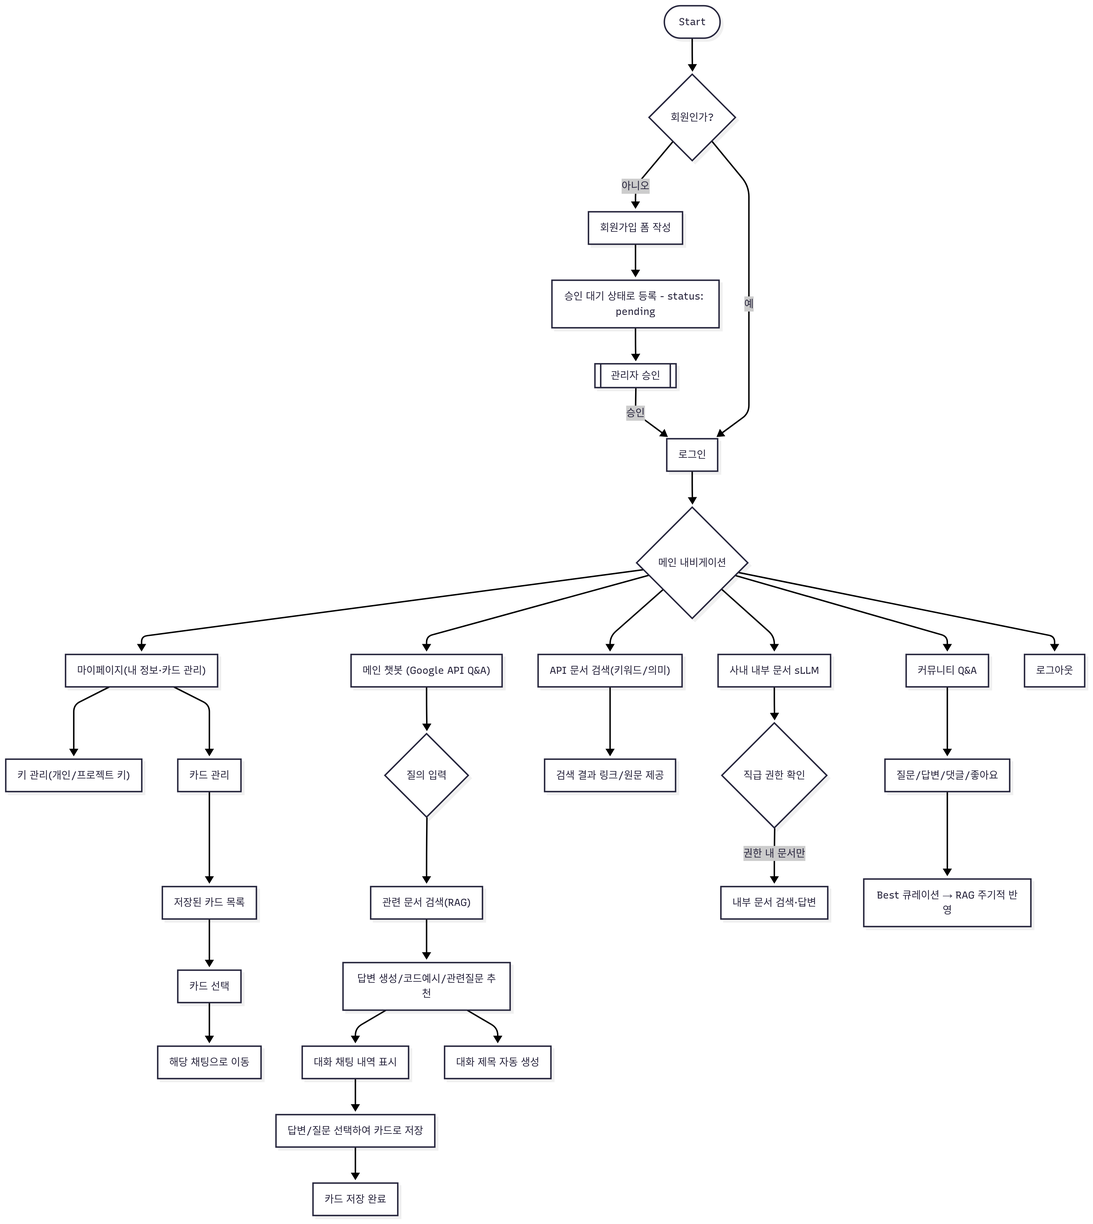
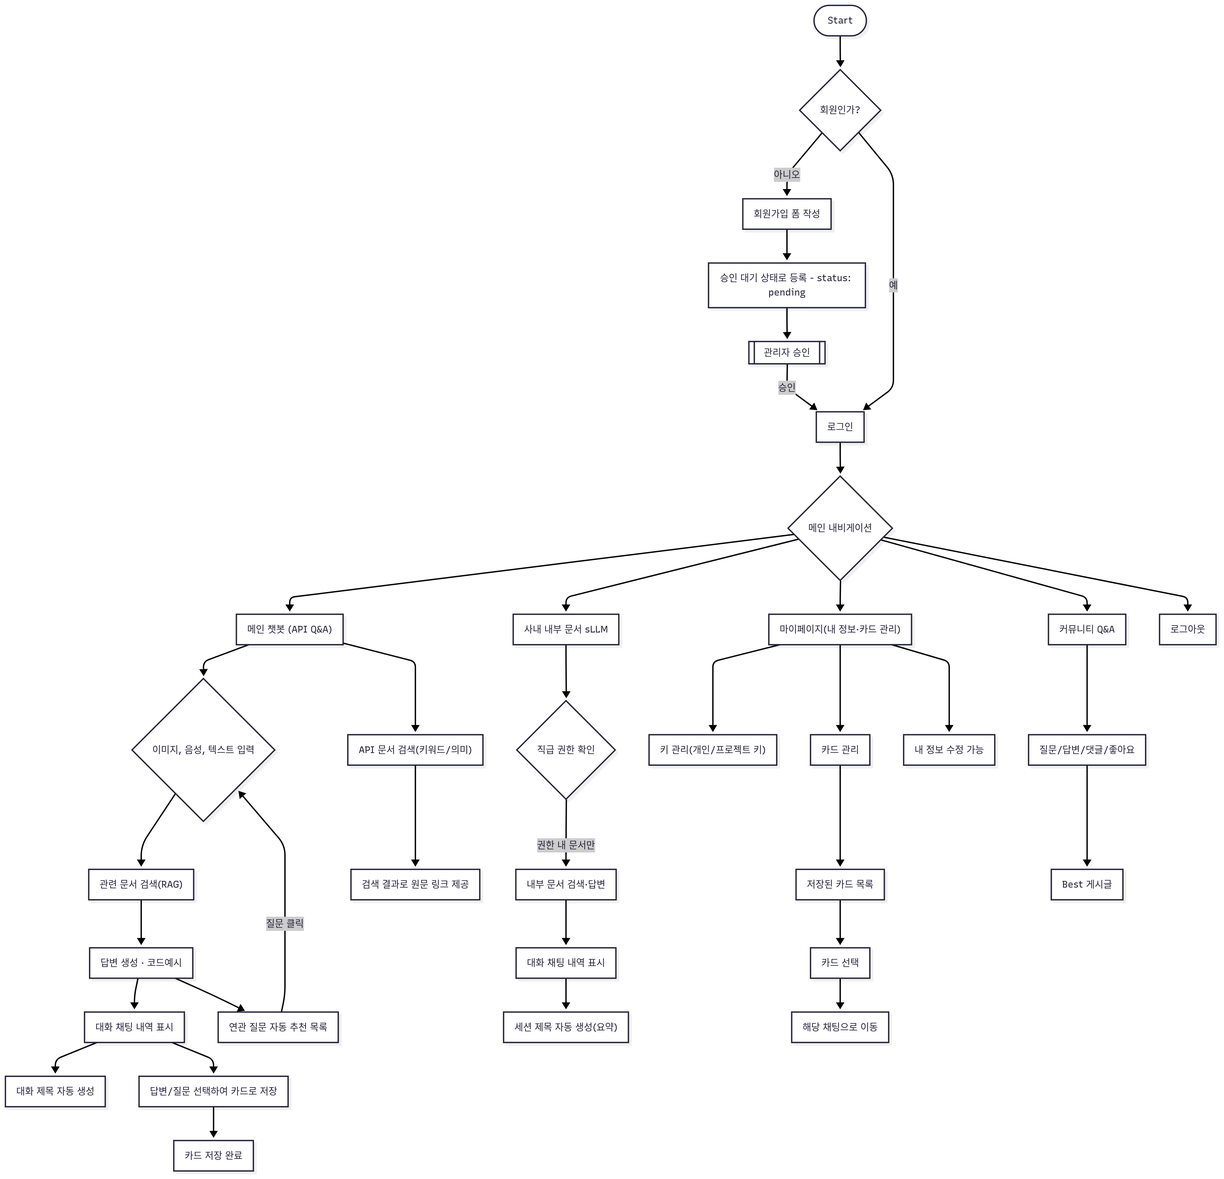
Update: READ ME 업데이트 (유저 플로우까지 업데이트 완료)

diff --git a/README.md b/README.md
@@ -1,7 +1,7 @@
 # 🚀 SK네트웍스 Family AI 과정 14기 1팀 - Final Project
 
-## **❇ 프로젝트명**  
-LLM 활용 내부 고객 업무 효율성 향상을 위한 구글 API 전문 사내 개발자 지원 AI 기반 문서 검색 시스템  
+## **❇ 프로젝트명 : CodeNova**  
+LLM 활용 내부 고객 업무 효율성 향상을 위한 API 전문 사내 개발자 지원 AI 기반 문서 검색 시스템  
 
 ---
 
@@ -12,25 +12,27 @@ LLM 활용 내부 고객 업무 효율성 향상을 위한 구글 API 전문 사
 ---
 
 ## 📌 프로젝트 개요
-구글 API는 방대한 문서와 복잡한 구조로 인해 개발자가 필요한 정보를 신속하게 찾기 어렵습니다.  
+API 문서는 방대한 문서와 복잡한 구조로 인해 개발자가 필요한 정보를 신속하게 찾기 어렵습니다.  
 
 본 프로젝트는 **RAG + LLM 기반 문서 검색 시스템**을 구축하여 내부 개발자의 **검색 효율성**과 **업무 생산성**을 높이는 것을 목표로 합니다.  
 
-이 시스템은 아래와 같이 크게 **구글 API 전문 어시스턴트**과 **사내 내부 문서 전문 sLLM 챗봇**으로 구성됩니다.  
+이 시스템은 아래와 같이 크게 **API 전문 어시스턴트**과 **사내 내부 문서 전문 SLLM 챗봇**으로 구성됩니다.  
 
-- **구글 API 전문 어시스턴트**:  
-  - **OpenAI GPT-4o 기반 메인 챗봇**
-  > 구글 API Q&A, 예제 코드, 오류 해결 등 **구글 API 문서에 대한 전반적인 질의응답**을 지원하는 챗봇. 사용자가 질문을 입력하면 관련 문서를 벡터 DB에서 검색하여 최적의 답변을 제공합니다.  
+- **API 전문 어시스턴트**:  
+  - **OpenAI GPT-4o 기반 챗봇**
+  > API Q&A, 예제 코드, 오류 해결 등 **API 문서에 대한 전반적인 질의응답**을 지원하는 챗봇. 사용자가 질문을 입력하면 관련 문서를 벡터 DB에서 검색하여 최적의 답변을 제공합니다.  
 
-  - **구글 API 문서 검색**:  
-  >   **키워드 기반** 및 **의미 기반 검색**을 통해 구글 API 문서를 빠르게 찾을 수 있는 기능. 
+  - **API 문서 원문 검색**:  
+  > 사용자가 입력한 검색어에 대한 **의미 기반 검색**을 통해 API 문서 원문 링크를 빠르게 찾을 수 있는 기능. 
   > 
   > 사용자가 특정 키워드나 의미를 입력하면 관련 원문 링크를 제공하여 구체적인 정보에 쉽게 접근할 수 있게 합니다.  
 
 - **사내 내부 문서 전문 sLLM 챗봇**:  
-  > 사내 정책·규정·기술 자료를 검색할 수 있으며, **권한 기반 보안 필터**를 적용해 사용자의 직급과 부서에 맞는 문서만 열람 가능  
+  > 사내 정책·규정·기술 자료를 검색할 수 있으며, **권한 기반 보안 필터**를 적용해 사용자의 직급과 부서에 맞는 문서만 열람 가능하도록 합니다.
   >
-  > 또한, **사내 전용 말투·용어·보고체계**를 반영하여 내부 직원들이 친숙하고 실질적인 도움을 받을 수 있도록 최적화된 대화 경험 제공  
+  > 또한, **사내 전용 말투·용어·보고체계**를 반영하여 내부 직원들이 친숙하고 실질적인 도움을 받을 수 있도록 최적화된 대화 경험 제공합니다.
+  > 
+  > 그리고 사용자가 공손/친구 말투 중 선택할 수 있도록 하여, 원하는 형태의 챗봇 응답을 받을 수 있도록 하는 사용자 경험을 제공합니다. 
 
 
 ---
@@ -41,8 +43,8 @@ LLM 활용 내부 고객 업무 효율성 향상을 위한 구글 API 전문 사
 - **국내 AI 산업**: 2024년 6조 3,000억 원 (응용 소프트웨어 2조 6,700억 원, 최대 비중)
 
 ### 타겟 고객
-- 구글 API를 활용하는 **사내 개발자 / 엔지니어**
-- 구글 API 서비스 및 연동 솔루션 관련 부서
+- API(구글 등)를 활용하는 **사내 개발자 / 엔지니어**
+- API 연관 서비스 및 연동 솔루션 관련 부서
 
 ### 비즈니스 모델 (BM)
 - **구독형 라이선스**: 월/연 단위 과금, 기능별·사용자 수 차등 요금제
@@ -52,97 +54,167 @@ LLM 활용 내부 고객 업무 효율성 향상을 위한 구글 API 전문 사
 
 ## ⚙ 기술 스택
 
-| 항목               | 내용                                                                                                                                                                                                                                                                                                                                                                                                                          |
-| :----------------- |:------------------------------------------------------------------------------------------------------------------------------------------------------------------------------------------------------------------------------------------------------------------------------------------------------------------------------------------------------------------------------------------------------------------------------|
-| **Frontend**       | ![Django](https://img.shields.io/badge/Django-092E20?style=for-the-badge&logo=django&logoColor=white) ![HTML5](https://img.shields.io/badge/HTML5-E34F26?style=for-the-badge&logo=html5&logoColor=white) ![CSS3](https://img.shields.io/badge/CSS3-1572B6?style=for-the-badge&logo=css3&logoColor=white) ![JavaScript](https://img.shields.io/badge/JavaScript-F7DF1E?style=for-the-badge&logo=javascript&logoColor=black) |
-| **Backend**        | ![Django](https://img.shields.io/badge/Django-092E20?style=for-the-badge&logo=django&logoColor=white) ![FastAPI](https://img.shields.io/badge/FastAPI-009688?style=for-the-badge&logo=fastapi&logoColor=white) ![Gunicorn](https://img.shields.io/badge/Gunicorn-6DA55F?style=for-the-badge&logo=gunicorn&logoColor=white) ![Uvicorn](https://img.shields.io/badge/Uvicorn-FFA500?style=for-the-badge&logo=uvicorn&logoColor=white) |
-| **DB**             | ![MySQL](https://img.shields.io/badge/MySQL-4479A1?style=for-the-badge&logo=mysql&logoColor=white) ![Chroma](https://img.shields.io/badge/Chroma-4B8BEA?style=for-the-badge&logo=python&logoColor=white) |
-| **Infra**          | ![AWS](https://img.shields.io/badge/Amazon%20AWS-232F3E?style=for-the-badge&logo=amazon-aws&logoColor=white) ![Docker](https://img.shields.io/badge/Docker-2496ED?style=for-the-badge&logo=docker&logoColor=white) ![Nginx](https://img.shields.io/badge/Nginx-009639?style=for-the-badge&logo=nginx&logoColor=white) |
-| **CI/CD**          | ![GitHub Actions](https://img.shields.io/badge/GitHub%20Actions-2088FF?style=for-the-badge&logo=github-actions&logoColor=white) ![AWS Elastic Beanstalk](https://img.shields.io/badge/AWS%20Elastic%20Beanstalk-232F3E?style=for-the-badge&logo=amazon-aws&logoColor=white) |
-| **Embedding**      | ![BGE-M3](https://img.shields.io/badge/BGE--M3-000000?style=for-the-badge&logo=huggingface&logoColor=white) |
-| **LLM Model**      | ![GPT-4o](https://img.shields.io/badge/GPT--4o-4B91FF?style=for-the-badge&logo=openai&logoColor=white) ![LangGraph](https://img.shields.io/badge/LangGraph-1E90FF?style=for-the-badge&logo=graphviz&logoColor=white) |
-| **Collaboration**  | ![Git](https://img.shields.io/badge/Git-F05032?style=for-the-badge&logo=git&logoColor=white) ![Notion](https://img.shields.io/badge/Notion-000000?style=for-the-badge&logo=notion&logoColor=white) ![Discord](https://img.shields.io/badge/Discord-7289DA?style=for-the-badge&logo=discord&logoColor=white) |
-| **Development**    | ![VS Code](https://img.shields.io/badge/VS%20Code-007ACC?style=for-the-badge&logo=visual-studio-code&logoColor=white) ![PyCharm](https://img.shields.io/badge/PyCharm-000000?style=for-the-badge&logo=pycharm&logoColor=white) |
+| 항목                  | 내용                                                                                                                                                                                                                                                                                                                                                                                                                                  |
+|:--------------------|:------------------------------------------------------------------------------------------------------------------------------------------------------------------------------------------------------------------------------------------------------------------------------------------------------------------------------------------------------------------------------------------------------------------------------------|
+| **Frontend**        | ![Django](https://img.shields.io/badge/Django-092E20?style=for-the-badge&logo=django&logoColor=white) ![HTML5](https://img.shields.io/badge/HTML5-E34F26?style=for-the-badge&logo=html5&logoColor=white) ![CSS3](https://img.shields.io/badge/CSS3-1572B6?style=for-the-badge&logo=css3&logoColor=white) ![JavaScript](https://img.shields.io/badge/JavaScript-F7DF1E?style=for-the-badge&logo=javascript&logoColor=black) |
+| **Backend**         | ![Django](https://img.shields.io/badge/Django-092E20?style=for-the-badge&logo=django&logoColor=white) ![FastAPI](https://img.shields.io/badge/FastAPI-009688?style=for-the-badge&logo=fastapi&logoColor=white) ![Gunicorn](https://img.shields.io/badge/Gunicorn-6DA55F?style=for-the-badge&logo=gunicorn&logoColor=white) ![Uvicorn](https://img.shields.io/badge/Uvicorn-FFA500?style=for-the-badge&logo=uvicorn&logoColor=white) |
+| **DB**              | ![MySQL](https://img.shields.io/badge/MySQL-4479A1?style=for-the-badge&logo=mysql&logoColor=white) ![Chroma](https://img.shields.io/badge/Chroma-4B8BEA?style=for-the-badge&logo=python&logoColor=white)                                                                                                                                                                                                                            |
+| **Infra**           | ![AWS](https://img.shields.io/badge/Amazon%20AWS-232F3E?style=for-the-badge&logo=amazon-aws&logoColor=white) ![S3](https://img.shields.io/badge/Amazon%20S3-569A31?style=for-the-badge&logo=amazons3&logoColor=white) ![Docker](https://img.shields.io/badge/Docker-2496ED?style=for-the-badge&logo=docker&logoColor=white) ![Nginx](https://img.shields.io/badge/Nginx-009639?style=for-the-badge&logo=nginx&logoColor=white) ![RunPod](https://img.shields.io/badge/RunPod-FF4500?style=for-the-badge&logo=cloudflare&logoColor=white) ![vLLM](https://img.shields.io/badge/vLLM-000000?style=for-the-badge&logo=lightning&logoColor=white) |
+| **CI/CD**           | ![GitHub Actions](https://img.shields.io/badge/GitHub%20Actions-2088FF?style=for-the-badge&logo=github-actions&logoColor=white) ![AWS Elastic Beanstalk](https://img.shields.io/badge/AWS%20Elastic%20Beanstalk-232F3E?style=for-the-badge&logo=amazon-aws&logoColor=white)                                                                                                                                                         |
+| **Embedding Model** | ![BGE-M3](https://img.shields.io/badge/BGE--M3-000000?style=for-the-badge&logo=huggingface&logoColor=white)                                                                                                                                                                                                                                                                                                                         |
+| **LLM Model**       | ![GPT-4](https://img.shields.io/badge/GPT--4-4B91FF?style=for-the-badge&logo=openai&logoColor=white) ![Qwen3-8B](https://img.shields.io/badge/Qwen3--8B%20(on%20RunPod%20+%20vLLM)-FF6F00?style=for-the-badge&logo=alibabacloud&logoColor=white) |
+| **Orchestration**   | ![LangGraph](https://img.shields.io/badge/LangGraph-1E90FF?style=for-the-badge&logo=graphviz&logoColor=white) ![LangChain](https://img.shields.io/badge/LangChain-2E8B57?style=for-the-badge&logo=chainlink&logoColor=white) |
+| **Collaboration**   | ![Git](https://img.shields.io/badge/Git-F05032?style=for-the-badge&logo=git&logoColor=white) ![GitHub](https://img.shields.io/badge/GitHub-181717?style=for-the-badge&logo=github&logoColor=white) ![Notion](https://img.shields.io/badge/Notion-000000?style=for-the-badge&logo=notion&logoColor=white) ![Discord](https://img.shields.io/badge/Discord-7289DA?style=for-the-badge&logo=discord&logoColor=white) |
+| **Development**     | ![VS Code](https://img.shields.io/badge/VS%20Code-007ACC?style=for-the-badge&logo=visual-studio-code&logoColor=white) ![PyCharm](https://img.shields.io/badge/PyCharm-000000?style=for-the-badge&logo=pycharm&logoColor=white) |
 
 ---
 
 ## ⚙ 시스템 아키텍처
 
-> 본 시스템은 **Django** 기반 웹 애플리케이션과 여러 기능 모듈로 구성되며, **AWS Elastic Beanstalk** 환경에서 **Docker 컨테이너**로 배포됩니다. 
->
-> 전체 구성은 **백엔드**(Django-Gunicorn/Uvicorn, FastAPI), **Chroma Vector DB**(챗봇 RAG 데이터 검색용), **MySQL**(사용자 및 콘텐츠 저장)로 이루어져 있습니다.
+> 본 시스템은 Django 기반 웹 애플리케이션, FastAPI 서비스, LLM(OpenAI GPT-4), sLLM(Qwen3-8B 파인튜닝 모델)로 구성됩니다.  
+> 
+> 대부분의 애플리케이션은 **AWS Elastic Beanstalk** 환경에서 **Docker 컨테이너** 형태로 배포됩니다.  
+> 
+> 다만, **MySQL DB는 별도의 AWS EC2 인스턴스** 위에서 Docker 컨테이너로 운영됩니다.  
 
-### [**아키텍쳐 이미지**]
+---
 
-<img width="1100" height="647" alt="시스템 아키텍처" src="https://github.com/user-attachments/assets/05f357ed-9120-4b1b-a99c-e1e7af3b46a6" />
+### 🔹 주요 구성 요소
 
+1. **웹 애플리케이션 계층**
+   - **Django (Gunicorn/Uvicorn)**: 메인 백엔드 프레임워크, OpenAI GPT-4 API 연동
+   - **Nginx Proxy + Application Load Balancer (ALB)**: 외부 요청을 HTTPS/HTTP로 수신 후 Django 컨테이너로 전달
+   - **AWS Route53**: 도메인 관리 및 HTTPS 라우팅 (`https://code-nova.dev`, `http://sllm.code-nova.site`)
 
-### [**주요 구성 요소**]
+2. **데이터베이스 계층**
+   - **MySQL (별도 AWS EC2 인스턴스 내 Docker 컨테이너)**: 사용자 계정 정보, 채팅 내역, 커뮤니티 내용 등 저장
+   - **Chroma Vector DB**: 챗봇 RAG 검색용 벡터 데이터베이스
 
-#### 💠 **메인 챗봇 서비스**
-- 구글 API 사용법 Q&A, 예제 코드, 오류 해결, 관련 질문 추천, 대화내역 카드 저장 기능을 제공.  
-- **챗봇 호출**: **Django 서버** 내에서 **Gunicorn/Uvicorn**을 사용해 비동기 API 서버로 호출됩니다.
+3. **스토리지 계층**
+   - **AWS S3**: 채팅 이미지, 프로필 이미지 파일 저장소
 
-#### 💠 **사내 sLLM 챗봇**
-- **FastAPI 서버**를 **RUNPOD** 환경에서 구축하여 호출됩니다. 이 챗봇은 **사내 정책 및 규정**에 대한 질의응답을 제공합니다.
+4. **AI 모델 계층**
+   - **LLM (OpenAI GPT-4)**: 주 대화 모델로서 범용적인 질의응답 처리
+   - **sLLM (Qwen3-8B Fine-tuned, RunPod + vLLM)**: 파인튜닝된 도메인 특화 모델, RunPod GPU 환경에서 vLLM을 통해 서빙  
+   - **FastAPI 서비스**: sLLM inference API 제공 (Nginx Proxy와 연동)
 
-#### 💠 **CI/CD**
-- **GitHub Actions**와 **AWS Elastic Beanstalk**를 연동하여 **자동 배포** 파이프라인을 구축합니다.  
-- GitHub Actions를 통해 코드 변경 시 자동으로 빌드하고 테스트한 후, **AWS Elastic Beanstalk**에 배포됩니다.
+5. **CI/CD 파이프라인**
+   - **GitHub → DockerHub → AWS EB**
+   - 로컬 개발(예: PyCharm) 후 GitHub에 Push
+   - `main` 브랜치 Merge 시 **GitHub Actions**가 Docker Image를 빌드 및 DockerHub에 업로드
+   - Elastic Beanstalk이 최신 이미지를 Pull 받아 자동 배포
+---
 
-#### 💠 **백엔드 서버**
-- **Gunicorn**과 **Uvicorn**을 병행하여 동기 요청 처리(Django 전통 요청)와 비동기 요청 처리(챗봇, API 호출 등)를 최적화합니다.
+### [**아키텍처 다이어그램**]
 
-#### 💠 **데이터 저장 및 검색**
-- **Chroma Vector DB**: 구글 API 문서 및 사내 문서 검색을 위한 **챗봇 RAG용 벡터 DB**.
-- **MySQL**: 사용자 정보 및 콘텐츠 저장.
-
-#### 💠 **배포 및 운영**
-- **Docker 컨테이너**를 활용하여 AWS에서 배포 및 운영되며, 각 기능 모듈이 분리되어 효율적으로 동작합니다.
+<img width="1100" alt="시스템 아키텍처" src="https://github.com/user-attachments/assets/05f357ed-9120-4b1b-a99c-e1e7af3b46a6" />
 
 ---
 
 ## ✔ 주요 기능
 
 ### **🌎 구글 API 전문 어시스턴트**
-- **OpenAI GPT-4o 기반 메인 챗봇**:  
-  > 구글 API Q&A, 예제 코드, 오류 해결 등 **구글 API 문서에 대한 전반적인 질의응답**을 지원하는 챗봇.
-  > 
-  > 사용자가 질문을 입력하면 관련 문서를 벡터 DB에서 검색하여 최적의 답변을 제공합니다.  
 
-- **구글 API 문서 검색**:  
-  > **키워드 기반** 및 **의미 기반 검색**을 통해 구글 API 문서를 빠르게 찾을 수 있는 기능. 
-  > 
-  > 사용자가 특정 키워드나 의미를 입력하면 관련 원문 링크를 제공하여 구체적인 정보에 쉽게 접근할 수 있게 합니다.  
+- **OpenAI GPT-4 기반 멀티모달 챗봇**:  
+  > 구글 API Q&A, 예제 코드, 오류 해결 등 **구글 API 문서 전반에 대한 질의응답**을 지원합니다.  
+  > 텍스트 입력뿐 아니라 **오류 코드 스니펫**이나 **API 관련 캡처 이미지**도 인식하여,  
+  > **API 사용법 / 오류 해결법 / 예시 코드**를 함께 제공합니다.  
+  > 또한 **이전 대화 맥락**을 반영하여 연속적인 대화에서도 정확한 답변을 유지합니다.  
+
+- **API 질문 분기 처리**:  
+  > 입력된 질문 유형에 따라 효율적으로 분기 처리합니다.  
+  > - **API 관련 질문** → 문서 검색 + GPT-4 기반 응답  
+  > - **일상 대화** → 일반 대화 모드로 응답  
+  > - **지원하지 않는 질문(예: GitFlow, 사내 업무 질문 등)** → "지원 범위 외 질문"으로 안내  
+
+- **음성 입력 지원 (Whisper 연동)**:  
+  > OpenAI **Whisper 모델**을 연동하여, 사용자의 **음성 입력을 실시간으로 텍스트 변환**하고  
+  > 변환된 내용을 기반으로 질의응답을 수행합니다.  
+
+- **구글 API 문서 검색 기능**:  
+  > **의미 기반 검색**을 통해 관련된 문서 원문을 빠르게 찾아 답변에 반영합니다.  
+  > 검색된 문서 중 **가장 유사도가 높은 Top N개 문서**를 사용자에게 제공하며,  
+  > **N 값은 사용자가 직접 조절 가능**합니다.  
+  > 또한 관련 원문 링크를 함께 제공하여, 세부 정보를 쉽게 확인할 수 있도록 지원합니다.
 
 ### **🧑💼 사내 문서 sLLM 챗봇**
+
+- **모델 및 학습 특성**:  
+  > **Qwen3-8B 모델**을 **LoRA 방식으로 파인튜닝**하여 구축된 챗봇입니다.  
+  > 학습 과정에서 **일상 대화**, **문서 검색 질의응답(RAG)**, **말투(공손/반말)**뿐만 아니라  
+  > **멀티턴 TOOL CALL 패턴**까지 반영하여, 대화 맥락을 고려한 자연스러운 응답이 가능합니다.  
+  > 사용자가 원하는 말투를 선택할 수 있도록 지원합니다.  
+
 - **내부 문서 검색 및 응답**:  
-  > **사내 문서 검색**과 관련된 질문에 답변하는 챗봇으로, **직급 및 권한에 따른 문서 접근 제어**를 통해 보안이 강화된 검색 환경을 제공합니다. 
-  > 
-  > 또한, **사내 말투**와 **용어**를 반영하여, 조직 내부의 커뮤니케이션에 맞는 톤과 스타일로 응답합니다.  
+  > **사내 문서 검색**과 관련된 질문은 **RAG 기반 검색**을 통해 정확한 답변을 제공합니다.  
+  > 이 과정에서 **직급 및 권한에 따른 문서 접근 제어**를 적용해 보안이 강화된 검색 환경을 보장합니다.  
+
+- **일상 대화 응답**:  
+  > 사내 문서 검색 이외의 **일상 질문**에 대해서는, 파인튜닝된 **Qwen3-8B 모델 자체**의 대화 능력을 활용하여 응답합니다.  
+
+- **커뮤니케이션 톤**:  
+  > **사내 말투와 용어**를 반영해 조직 내부 커뮤니케이션에 맞는 톤과 스타일로 응답하며,  
+  > 사용자 선택에 따라 **공손한 말투**와 **반말 톤** 모두 자연스럽게 지원합니다.
+
 
 ---
 
 ### **⚙ 부가기능**
+
 - **대화 카드 저장**:  
-  > 팀 내에서 중요한 **코드 자산**이나 **API 사용 예시** 등을 **대화 카드**로 저장하여, 향후 필요한 시점에 재활용이 가능하도록 합니다. 이 기능은 팀 내 지식 관리와 코드 자산의 공유를 촉진시켜 업무 효율성을 높입니다.  
+  > 팀 내에서 중요한 **코드 자산**이나 **API 사용 예시** 등을 **대화 카드**로 저장할 수 있습니다.  
+  > 저장된 카드는 **마이페이지에서 확인 가능**하며, **채팅 보러가기** 기능을 통해 해당 카드가 속한 대화 세션으로 바로 이동할 수 있습니다.  
+  > 이를 통해 팀 내 지식 관리와 코드 자산 공유가 촉진되어 업무 효율성을 높입니다.  
 
 - **API 키 관리**:  
-  > API 키를 **저장, 수정, 삭제**할 수 있는 기능입니다. 사용자는 자신의 API 키를 저장하고 관리할 수 있습니다.
+  > API 키를 **저장, 수정, 삭제, 복사**할 수 있는 기능입니다.  
+  > 사용자는 자신의 API 키를 손쉽게 관리할 수 있습니다.
 
-- **커뮤니티** (개발 후순위):  
-  > 코드 예제, API 사용법, 문제 해결에 대한 **질의응답 커뮤니티** 기능을 제공합니다. 
-  > 
-  >사용자는 자신이 겪은 문제나 궁금증을 커뮤니티에 게시하고, 다른 개발자들로부터 도움을 받을 수 있습니다.
-  > 
-  > **고품질 게시글**은 벡터 DB에 주기적으로 업데이트되어, 챗봇이 향후 유사한 질문에 대해 더욱 정확하고 실용적인 답변을 제공할 수 있게 됩니다.
+- **커뮤니티**:  
+  > 사용자들이 **코드 예제, API 사용법, 문제 해결**뿐 아니라 **일상적인 주제**에 대해서도 자유롭게 의견을 나눌 수 있는 커뮤니티 기능을 제공합니다.  
+  > 이를 통해 개발자 간의 정보 공유는 물론, 친목 도모와 소통의 장으로도 활용할 수 있습니다.  
+  > 커뮤니티 내 **베스트 게시글**은 별도로 선별되어 게시판 상단에 노출됩니다.
 
 
 ---
 
 ## ♒ 프로젝트 User-Flow
 
-![img.png](image/userflow.png)
+![img_2.png](image/userflow.png)
+
+### 🧭 유저 플로우 정리
+
+1. **회원가입 및 승인**
+   - 신규 유저는 회원가입 후 `status: pending` 상태로 등록
+   - 관리자가 승인해야 로그인 가능
+
+2. **메인 내비게이션: 로그인 후 유저는 네 가지 주요 기능을 이용할 수 있음**
+   - **API 챗봇 (API Q&A)**
+   - **사내 문서 검색 sLLM**
+   - **마이페이지 (키 관리 / 카드 관리 / 내 정보 수정)**
+   - **커뮤니티 Q&A**
+
+3. **API 챗봇 (API Q&A)**
+   - 입력: 이미지 / 음성 / 텍스트
+   - 관련 문서 검색 (RAG) 및 응답 생성
+   - 답변 생성 후 대화 내용 표시
+   - 유저가 원하는 경우 **대화 카드 저장** 가능
+   - 저장된 카드는 마이페이지에서 확인 및 재접속 가능
+
+4. **사내 문서 검색 sLLM**
+   - 직급 및 권한 확인 후 문서 검색 가능
+   - RAG 기반 문서 답변 및 대화 내용 표시
+   - 필요 시 **대화 카드 자동 저장** 기능 지원
+
+5. **마이페이지**
+   - **API 키 관리** (등록 / 수정 / 삭제 / 복사)
+   - **대화 카드 관리** (목록 확인, 선택 시 해당 세션으로 이동)
+   - **내 정보 수정** 가능
+
+6. **커뮤니티 Q&A**
+   - 질문, 답변, 댓글, 좋아요 기능 제공
+   - **베스트 게시글**은 커뮤니티 상단에 노출
+   - 개발/코드뿐 아니라 **일상 관련 주제**도 지원 → 친목 도모 가능
 
 
 ## 🧠 모델링 계획
